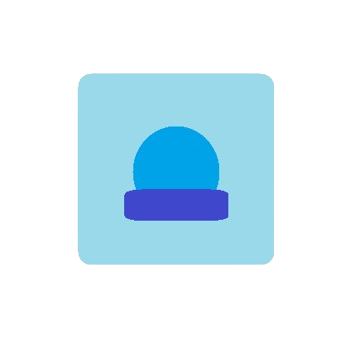
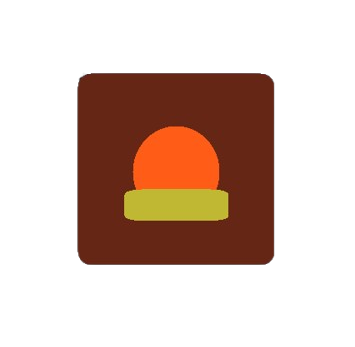
4.2 Beta 1.26980：重大更新！T-CodeSystem新年版本已推出！

diff --git a/Style/index-old.css b/Style/index-old.css
@@ -92,15 +92,15 @@ body{
     width: 90%;
 }
 #about a{
-    color: rgb(255, 150, 0);
+    color: rgb(42, 188, 255);
     transition: color 0.5s ease;
     text-decoration: none;
 }
 #about a:hover{
-    color: rgb(255, 200, 0);
+    color: rgb(127, 214, 255);
 }
 #about a:active{
-    color: rgb(255, 255, 0);
+    color: rgb(176, 230, 255);
 }
 #about-ok{
     position: absolute;
@@ -111,18 +111,18 @@ body{
     height: 40px;
     border-radius: 15px;
     border: none;
-    background-color: rgb(150, 0, 0);
+    background-color: rgb(140, 242, 255);
     font-size: 18px;
-    color: white;
+    color: black;
     transition: background-color 0.5s ease,
     color 0.5s ease;
 }
 #about-ok:hover{
-    background-color: rgb(200, 0 ,0);
+    background-color: rgb(0, 225, 255);
     color: white;
 }
 #about-ok:active{
-    background-color: rgb(255, 0, 0);
+    background-color: rgb(0, 198, 224);
     color: white;
 }
 #text2{
@@ -134,7 +134,7 @@ body{
     font-size: 50px;
 }
 #text2 span{
-    background: linear-gradient(90deg,rgb(255, 0, 0),rgb(255, 255, 0));
+    background: linear-gradient(90deg,rgb(145, 220, 255),rgb(36, 36, 255));
     background-clip: text;
     -webkit-background-clip: text;
     -moz-background-clip: text;
@@ -163,7 +163,7 @@ body{
     transform: translate(-50%,-50%) scale(0.85);
     width: 190px;
     height: 50px;
-    background-color: rgb(255, 0, 0);
+    background-color: rgb(0, 67, 252);
     color: white;
     border: none;
     transition: background-color 0.3s ease,
@@ -174,13 +174,13 @@ body{
 }
 #btn1:hover{
     transform: translate(-50%,-50%) scale(1);
-    background-color: rgb(200, 0, 0);
-    color: white;
+    background-color: rgb(101, 219, 255);
+    color: black;
 }
 #btn1:active{
     transform: translate(-50%,-50%) scale(0.9);
-    background-color: rgb(150, 0, 0);
-    color: white;
+    background-color: rgb(0, 204, 255);
+    color: black;
 }
 #copyright{
     position: absolute;

diff --git a/System/Styles/Desktop-old.css b/System/Styles/Desktop-old.css
@@ -1,7 +1,7 @@
 body,html{
     background: linear-gradient(180deg,
-    rgb(255,255,0),rgb(255,0,0),
-    rgb(255,200,0),rgb(150,0,0));
+    rgb(0,255,234),rgb(0,150,255),
+    rgb(0,187,171),rgb(0,103,177));
     background-size: 100% 250%;
     background-attachment: fixed;
     user-select: none;
@@ -161,7 +161,7 @@ body.dark .window{
 }
 #about-image{
     position: absolute;
-    background: linear-gradient(180deg,rgb(255,255,0),rgb(255,0,0));
+    background: linear-gradient(180deg,rgb(0,100,255),rgb(0,255,255));
     width: 40px;
     height: 40px;
     border-radius: 50%;
@@ -490,7 +490,7 @@ body.dark .window{
     transform: translate(-50%,-50%) scale(1);
     width: 50px;
     height: 50px;
-    background-color: rgba(100,0,0,0.5);
+    background-color: rgba(66,255,66, 0.5);
     backdrop-filter: blur(2px);
     -webkit-backdrop-filter: blur(2px);
     border-radius: 50%;

diff --git a/System/Desktop.html b/System/Desktop.html
@@ -63,11 +63,12 @@
         </div>
         <div class="window-content">
             <h1>T-CodeSystem</h1>
-            <p>版本4.2 Stable 1.26938</p>
+            <p>版本4.2 Beta 1.26980</p>
             <h3>此项目开源在GitHub</h3>
             <p>开源协议：GNU GPL 3.0</p>
-            <h3>T-PageCode Stable</h3>
-            <p>Stable正常版本,当前处于Stable版本</p>
+            <h3>T-PageCode Beta</h3>
+            <p>Beta预览版本,当前处于Stable版本</p>
+            <p>当前是T-CodeSystem新年版本。</p>
             <p>&copy;2026 T-PageCode, Dev.</p>
         </div>
     </div>
@@ -79,6 +80,6 @@
         <h1>2027</h1>
         <p>2027年快要到了!</p>
     </div>
-    <p id="version"></p>
+    <p id="version">Version T-CodeSystem Beta 1.26980</p>
 </body>
 </html>

diff --git a/System/Styles/Crash-old.css b/System/Styles/Crash-old.css
@@ -1,5 +1,5 @@
 body{
-    background: linear-gradient(180deg,rgb(255,0,0),rgb(255,255,0));
+    background: linear-gradient(180deg,rgb(0,50,255),rgb(0,180,50));
     background-attachment: fixed;
     user-select: none;
 }
